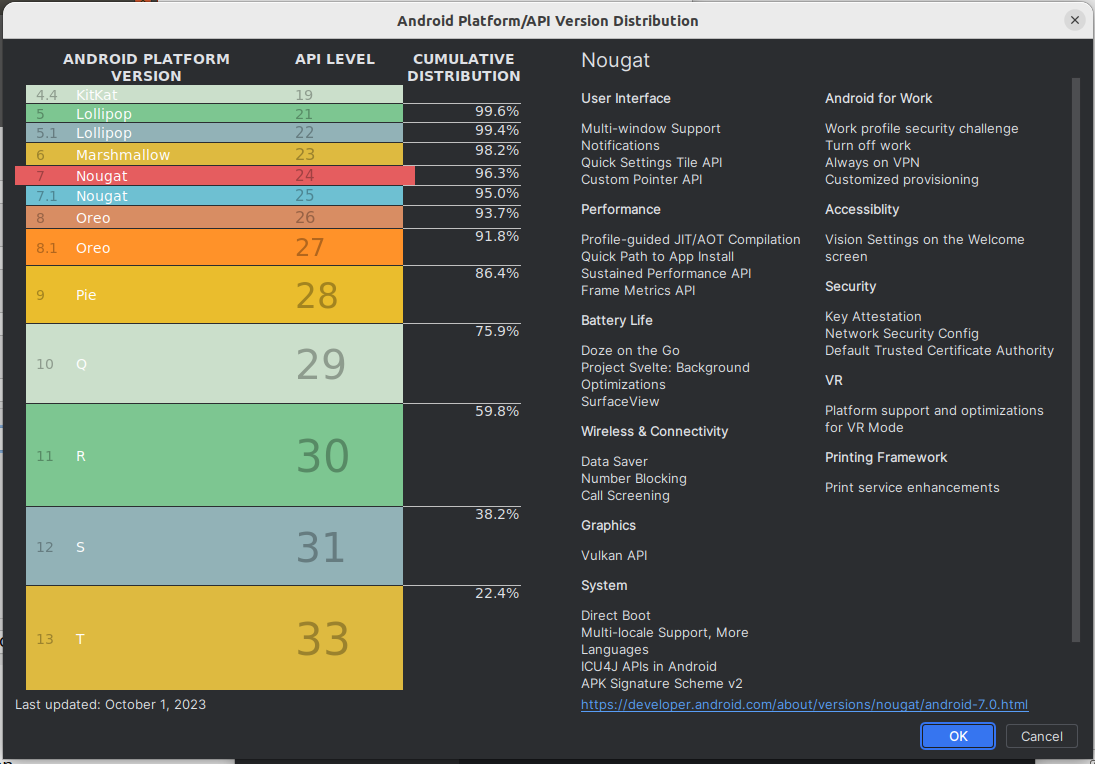
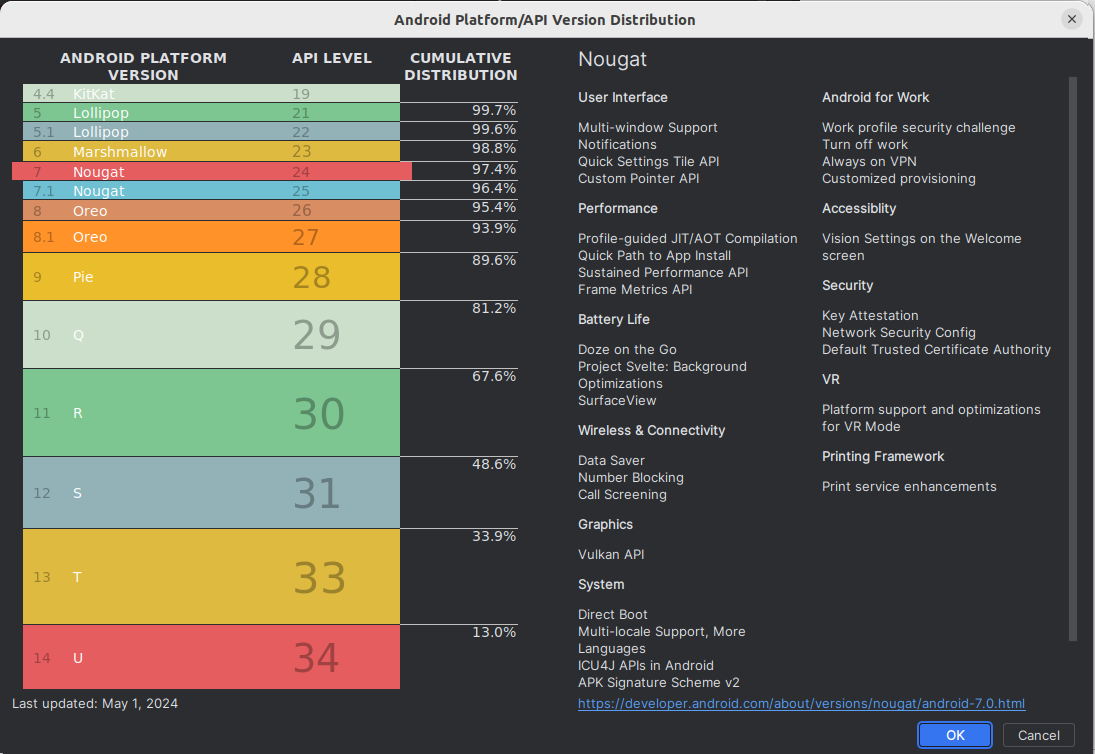
Update Android versions info

diff --git a/COM527/topic1.html b/COM527/topic1.html
@@ -25,11 +25,11 @@ liberal with accepting apps than some of the other vendors. Also, there are alte
 <p>.</p>
 <h2>Android versions</h2>
 <p>
-At this point it is worth elaborating on the various <em>versions of Android</em>. At the time of writing the percentages of devices running different versions are as below (this is taken from Android Studio):
+At this point it is worth elaborating on the various <em>versions of Android</em>. As of last May the percentages of devices running different versions are as below (this is taken from Android Studio):
 <br />
 <img src="../images/android_versions.png" alt="Percentages of devices running different versions" />
 <br />
-The most recent version deployed on actual mobile devices is 14, however, as can be seen above, no devices had 14 installed as of October 1 (i.e 4 months ago at the time of writing) but 22.4% had 13 installed. Many devices are running 9 (Pie), 10 (Q), 11 (R), and 12 (S). The majority of devices are running Marshmallow (Android 6 or API level 23) upwards.</p>
+The most recent version deployed on actual mobile devices is 15, however, this is a very recent release with few devices running it. Many devices are running 9 (Pie), 10 (Q), 11 (R), 12 (S), 13 (Tiramisu) and 14 (Upside Down Cake). The majority of devices are running Marshmallow (Android 6 or API level 23) upwards.</p>
 <p>Another concept that you need to understand is the <em>API level</em>. The <em>Android API</em> is the set of classes which are used to program Android apps with. The API level denotes revisions to the Android API, in a sequence of positive integers starting from 1. Thus, the numbers used for the API levels are not the same as those used for the Android versions, but each API level corresponds to a particular version. The idea is that each time Android itself is updated, the API is updated too. For example: 
 <ul>
     <li>API level 15 corresponds to Android 4.0.3; </li>
